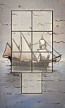
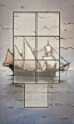
Layout Changes
Increased size of assets and changed location for them. Dynamically placing role cards

diff --git a/classes.py b/classes.py
@@ -32,11 +32,11 @@ class CargoShip(pygame.sprite.Sprite):
 		self.image = pygame.image.load(self.imagename)
 		self.rect = self.image.get_rect()
 		if (self.size == 1):
-			self.rect.center = ((10/20)*self.gs.width, (18/20)*self.gs.height)
+			self.rect.center = ((2/8)*self.gs.width, (4/20)*self.gs.height)
 		elif (self.size == 2):
-			self.rect.center = ((11/20)*self.gs.width, (18/20)*self.gs.height)
+			self.rect.center = ((2/8)*self.gs.width, (7/20)*self.gs.height)
 		elif (self.size == 3):
-			self.rect.center = ((12/20)*self.gs.width, (18/20)*self.gs.height)
+			self.rect.center = ((2/8)*self.gs.width, (10/20)*self.gs.height)
 		self.spaces_Left = numSpaces
 
 class ColonistShip(pygame.sprite.Sprite):
@@ -46,7 +46,7 @@ class ColonistShip(pygame.sprite.Sprite):
 		self.gs = gs
 		self.image = pygame.image.load("assets\\colonist_ship.png")
 		self.rect = self.image.get_rect()
-		self.rect.center = ((8/20)*self.gs.width, (18/20)*self.gs.height)
+		self.rect.center = ((2/8)*self.gs.width, (13/20)*self.gs.height)
 		self.numColonists = numColonists
 
 class TradingHouse(pygame.sprite.Sprite):
@@ -60,7 +60,7 @@ class TradingHouse(pygame.sprite.Sprite):
 		self.space4 = None
 		self.image = pygame.image.load("assets\\trading_house.png")
 		self.rect = self.image.get_rect()
-		self.rect.center = ((9/20)*self.gs.width, (18/20)*self.gs.height)
+		self.rect.center = ((2/8)*self.gs.width, (16/20)*self.gs.height)
 
 class BuildingBoard(pygame.sprite.Sprite):
 	def __init__(self, gs=None):
@@ -115,26 +115,65 @@ class ClickableObject(pygame.sprite.Sprite):
 		pygame.sprite.Sprite.__init__(self)
 
 		self.gs = gs
-		self.image = pygame.image.load("assets\\"+name+".png")
+		if name == "prospector1" or name == "prospector2":
+			self.image = pygame.image.load("assets\\prospector.png")
+		else:
+			self.image = pygame.image.load("assets\\"+name+".png")
 		self.rect = self.image.get_rect()
 
 		if card_type == 'RoleCard':
-			#self.rect.center = (self.gs.width/2, self.gs.height/2)
 			self.doubloons = 0
-			if name == 'settler':
-				pass
-			elif name == 'mayor':
-				pass
-			elif name == 'builder':
-				pass
-			elif name == 'crafstman':
-				pass
-			elif name == 'trader':
-				pass
-			elif name == 'captain':
-				pass
-			elif name == 'prospector':
-				pass
+			if self.gs.numPlayers == 3:
+				if name == 'settler':
+					self.rect.center = ((12/16)*self.gs.width, (10/30)*self.gs.height)
+				elif name == 'mayor':
+					self.rect.center = ((12/16)*self.gs.width, (15/30)*self.gs.height)
+				elif name == 'builder':
+					self.rect.center = ((12/16)*self.gs.width, (20/30)*self.gs.height)
+				elif name == 'craftsman':
+					self.rect.center = ((13/16)*self.gs.width, (10/30)*self.gs.height)
+				elif name == 'trader':
+					self.rect.center = ((13/16)*self.gs.width, (15/30)*self.gs.height)
+				elif name == 'captain':
+					self.rect.center = ((13/16)*self.gs.width, (20/30)*self.gs.height)
+				else:
+					pass
+			elif self.gs.numPlayers == 4:
+				if name == 'settler':
+					self.rect.center = ((12/16)*self.gs.width, (8/30)*self.gs.height)
+				elif name == 'mayor':
+					self.rect.center = ((12/16)*self.gs.width, (12/30)*self.gs.height)
+				elif name == 'builder':
+					self.rect.center = ((12/16)*self.gs.width, (16/30)*self.gs.height)
+				elif name == 'craftsman':
+					self.rect.center = ((12/16)*self.gs.width, (20/30)*self.gs.height)
+				elif name == 'trader':
+					self.rect.center = ((13/16)*self.gs.width, (10/30)*self.gs.height)
+				elif name == 'captain':
+					self.rect.center = ((13/16)*self.gs.width, (14/30)*self.gs.height)
+				elif name == 'prospector1':
+					self.rect.center = ((13/16)*self.gs.width, (18/30)*self.gs.height)
+				else:
+					pass
+			else:
+				if name == 'settler':
+					self.rect.center = ((12/16)*self.gs.width, (7/30)*self.gs.height)
+				elif name == 'mayor':
+					self.rect.center = ((12/16)*self.gs.width, (12/30)*self.gs.height)
+				elif name == 'builder':
+					self.rect.center = ((12/16)*self.gs.width, (17/30)*self.gs.height)
+				elif name == 'craftsman':
+					self.rect.center = ((12/16)*self.gs.width, (22/30)*self.gs.height)
+				elif name == 'trader':
+					self.rect.center = ((13/16)*self.gs.width, (7/30)*self.gs.height)
+				elif name == 'captain':
+					self.rect.center = ((13/16)*self.gs.width, (12/30)*self.gs.height)
+				elif name == 'prospector1':
+					self.rect.center = ((13/16)*self.gs.width, (17/30)*self.gs.height)
+				elif name == 'prospector2':
+					self.rect.center = ((13/16)*self.gs.width, (22/30)*self.gs.height)
+				else:
+					pass
 		elif card_type == 'Building':
 			if name == 'small_indigo_plant':
 				self.rect.center = ((99/320)*self.gs.width, (11/112)*self.gs.height)

diff --git a/puertorico.py b/puertorico.py
@@ -165,7 +165,7 @@ class GameSpace:
 			self.cargo1 = CargoShip(5, 1, self)
 			self.cargo2 = CargoShip(6, 2, self)
 			self.cargo3 = CargoShip(7, 3, self)
-			self.prospector1 = ClickableObject("RoleCard", "prospector", self)
+			self.prospector1 = ClickableObject("RoleCard", "prospector1", self)
 			self.prospector2 = None
 			self.numPiles = 5
 			self.doubloons = 74
@@ -175,8 +175,8 @@ class GameSpace:
 			self.cargo1 = CargoShip(6, 1, self)
 			self.cargo2 = CargoShip(7, 2, self)
 			self.cargo3 = CargoShip(8, 3, self)
-			self.prospector1 = ClickableObject("RoleCard", "prospector", self)
-			self.prospector2 = ClickableObject("RoleCard", "prospector", self)
+			self.prospector1 = ClickableObject("RoleCard", "prospector1", self)
+			self.prospector2 = ClickableObject("RoleCard", "prospector2", self)
 			self.numPiles = 6
 			self.doubloons = 66
 
@@ -253,6 +253,16 @@ class GameSpace:
 				self.screen.blit(self.cargo1.image, self.cargo1.rect)
 				self.screen.blit(self.cargo2.image, self.cargo2.rect)
 				self.screen.blit(self.cargo3.image, self.cargo3.rect)
+				self.screen.blit(self.builder.image, self.builder.rect)
+				self.screen.blit(self.captain.image, self.captain.rect)
+				self.screen.blit(self.craftsman.image, self.craftsman.rect)
+				self.screen.blit(self.mayor.image, self.mayor.rect)
+				self.screen.blit(self.settler.image, self.settler.rect)
+				self.screen.blit(self.trader.image, self.trader.rect)
+				if self.prospector1 is not None:
+					self.screen.blit(self.prospector1.image, self.prospector1.rect)
+				if self.prospector2 is not None:
+					self.screen.blit(self.prospector2.image, self.prospector2.rect)
 				if playerView == 1:
 					self.screen.blit(self.playerboards[0].image, self.playerboards[0].rect)
 					self.screen.blit(self.playerboards[0].playertext, ((self.width/2) - (self.title.get_rect().width/2), (1/20)*self.height))
